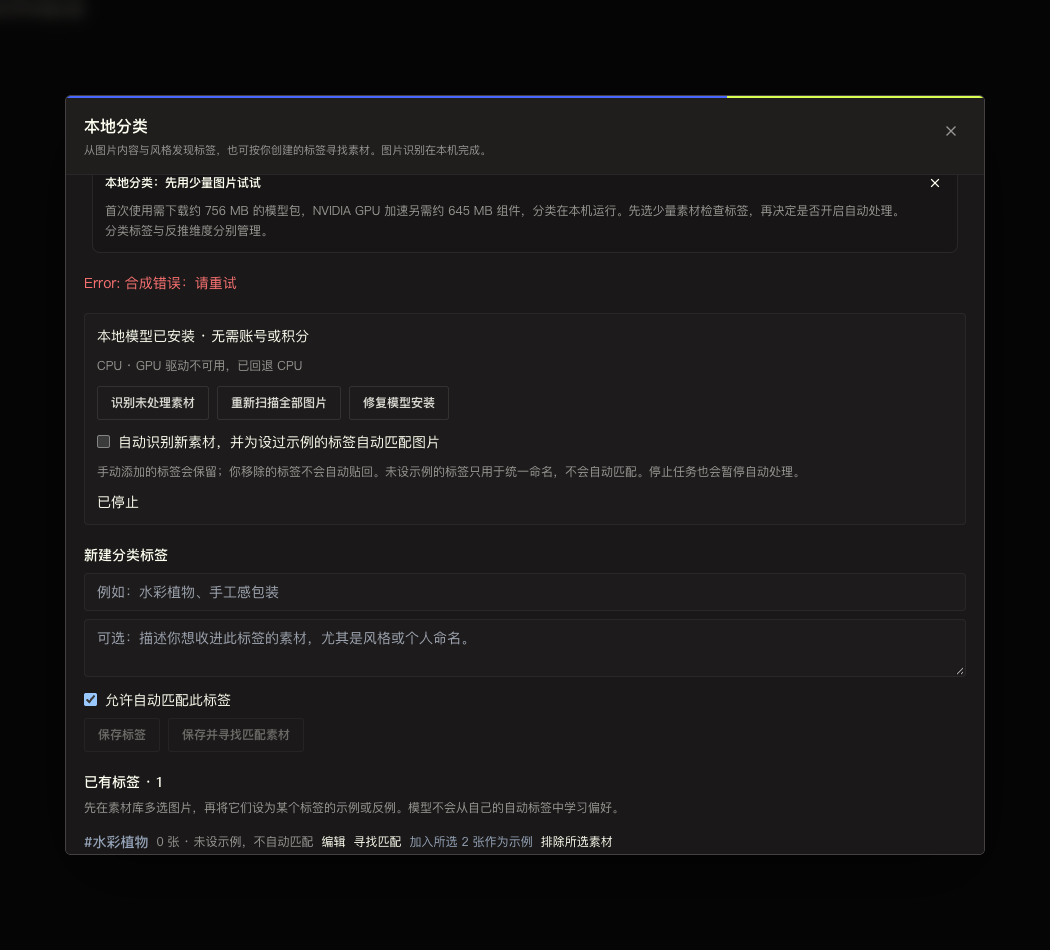
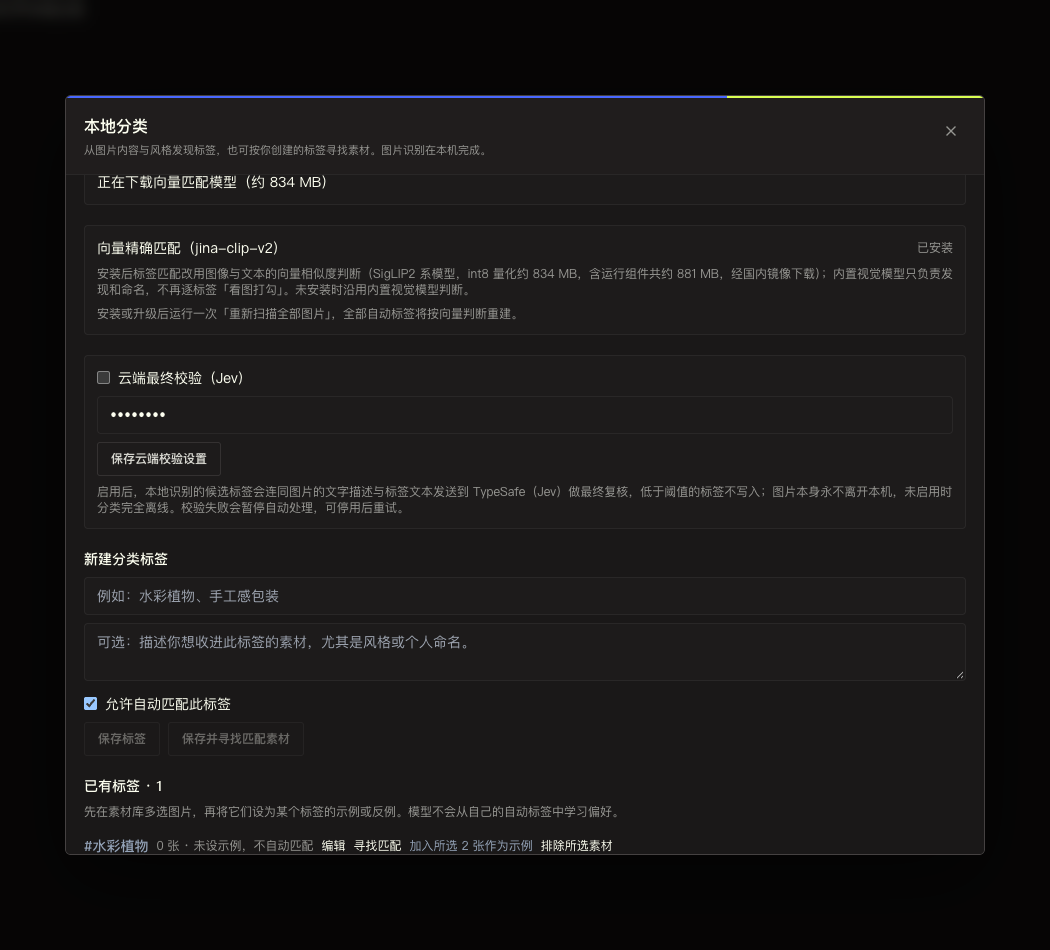
chore(mac): record 26.9.2001 build with R2 upload handoff and 26.9.1901 live baseline

diff --git a/PROJECT.md b/PROJECT.md
@@ -21,11 +21,11 @@
 
 ## 目前进展
 
-截至 2026-09-19，桌面与官网自动更新发布已重新核对生产；Worker、数据库及模型服务仍沿用下述既有部署记录，本次未变更。
+截至 2026-09-20，Mac 更新通道已由发布侧替换至 **26.9.1901**（启动静默检查更新等 26.9.1803 同源功能随包上线）；Windows 保持 26.9.1803。Worker、数据库及模型服务仍沿用下述既有部署记录，本次未变更。
 
-**自动更新：** Windows x64 已发布 **26.9.1803**，含启动时检查更新、设计师路线开放范围及应用内账号升级入口；M 系列 Mac 保持 **26.9.1802**，尚未包含这些新增客户端功能。官网检查、完整包下载和验签已通过，Intel、Mac 公证及双端原生升级仍待验收。发布/回滚和双端交接见 [桌面自动更新](dev-doc/DESKTOP-UPDATES.md)。
+**自动更新：** Windows x64 已发布 **26.9.1803**，含启动时检查更新、设计师路线开放范围及应用内账号升级入口；M 系列 Mac 线上为 **26.9.1901**（2026-09-20 确认清单已替换上线，含上述新增客户端功能与本地分类防误标），**26.9.2001 已本机构建待上传发布**（向量匹配判官、Jev 云端校验与画板/文本卡增强）。官网检查、完整包下载和验签已通过，Intel、Mac 公证及双端原生升级仍待验收。发布/回滚和双端交接见 [桌面自动更新](dev-doc/DESKTOP-UPDATES.md)。
 
-- **桌面**：当前 Windows 已发布 **26.9.1803**，M 系列 Mac 为 **26.9.1802**（SQLite 至 `0030`）。在此前 26.9.17 的项目画板、多线程、身份引导、素材仅画板可见、分层编辑、Mac 共用更新、本地分类代理/GPU 与标签恢复基础上，合并工作区既有改动及设置内自动更新；采用用户确认的整包发布范围。老版本仍需先手动安装一次 26.9.18，之后由设置检查后续新版。
+- **桌面**：当前 Windows 已发布 **26.9.1803**，M 系列 Mac 为 **26.9.1901**（SQLite 至 `0030`）。在此前 26.9.17 的项目画板、多线程、身份引导、素材仅画板可见、分层编辑、Mac 共用更新、本地分类代理/GPU 与标签恢复基础上，合并工作区既有改动及设置内自动更新；采用用户确认的整包发布范围。老版本仍需先手动安装一次 26.9.18，之后由设置检查后续新版。
 - **云端**：最近部署记录为 9 月 14 日；在 9 月 11 日的视频基线上加入兑换码/后台（`0059/0060`）与分层服务（`0061`），保留 `0057` 未集成预留。Worker 的 DSH 已改为 `deepseek-flash` 并部署漏参纠正；后续分层镜像包含这些更新。版本与回滚入口见 [收费化进度](dev-doc/ARCH-ADJUST-PROGRESS.md)。
 - **Agent / HTML**：统一 `bowerbird-unified-agent + dsh` 入口与受限 renderer 已部署，真实 HTML 工具链及图片多结果能力已有验收；仍为 **test-only**。缺自然小名单质量样本，基础镜像上次扫描的 **4 CRITICAL / 18 HIGH** 尚无修复或风险接受证据；不可据旧扫描推断今日漏洞数量。
 - **视频 / 分层**：Cloud Seedance 2.5 已部署，**未启价、未完成真实生成与账单验收**；即梦 2.5 四模式已接入，真实生成与原生 UI 仍待验。分层云服务按 **20/23 积分测试价**完成真实拆分/修改与幂等扣费验收，正式价和原生桌面完整链路仍待确认。
@@ -38,12 +38,12 @@
 - 反推旧清单的结果管理、取消/耗时、复制及维度复用已实现；单图指令记忆、视频反推支持与流式结果显示仍未形成验收闭环。当前提交反推还会保存全局默认指令，与“保存为默认”提示存在差异，需单独修正。PSD 导入预览仍未实现，已有图层 PSD 导出不等于支持 PSD 素材预览。OCR/版式/灵感卡等保持延后。
 
 **近期里程碑（仅保留最近 3 条；历史详见 [进展归档](dev-doc/进展归档.md)）**
[1 lines of base64/hex data omitted]
+
 > **本地分类匹配判断切换为 SigLIP2 系向量匹配（2026-09-19，本机实现+真实模型验证）：** 应用户澄清，引入 jina-clip-v2（SigLIP2 视觉塔 + jina-embeddings-v3 文本塔，ONNX int8 874MB）作为匹配阶段判官：安装向量包后逐标签判断改为「图像嵌入 × 标签文本/示例图嵌入」余弦相似度（≥0.27 且不低于排除示例），VLM 只负责发现与命名；未安装/加载失败/平台无运行库（Intel Mac）时回退原 VLM 判断。`ort` 2.0.0-rc.13 load-dynamic，onnxruntime 1.28.0 运行库随包经 SHA-256 固定下载（hf-mirror 优先），全链路本机完成不出机。21 张引导素材实测：矿泉水瓶产品图 top-1 即「矿泉水瓶」0.289（「女孩」跌出前五），真负例 <0.22，阈值 0.27 由此标定；生产代码真实模型测试 8.0s 通过。Rust **378 passed / 6 ignored**、TypeScript 与面板 UI 回归通过。Windows x64 清单已钉定未实机验证；int8 未与 fp16 对照、UI 截图对「产品图」0.328 为已知误报面，真实库观察待续。详见 [LOCAL-CLASSIFICATION.md](dev-doc/LOCAL-CLASSIFICATION.md)。
 
 
 > **本地分类引入可选云端最终校验 Jev（2026-09-19，源码更新未打包）：** 落地前一日调研决策：TypeSafe Jev（System One Model）作为 opt-in 最终闸门加入本地分类——识图始终本地（llama.cpp + 固定 Qwen3.5-0.8B 不变），出机仅图片文字描述与标签文本，默认关闭、面板配置 API Key；一次请求并行复核全部候选（noul 概率 ≥0.6 才写入），校验失败按资产失败处理、不写部分结果。附带修复发现抽样就地截断标签集导致示例匹配只遍历前八个的问题。本地分类回归 **24 passed / 4 ignored**（新增 Jev 阈值过滤/错误不放行/空描述跳过三测）、settings 回归 9 passed、TypeScript 与面板 UI 脚本（含云端校验保存断言）通过；未启用时行为与上版一致，阈值待真实 key + 引导素材标注集调优。详见 [LOCAL-CLASSIFICATION.md](dev-doc/LOCAL-CLASSIFICATION.md)。
-
[1 lines of base64/hex data omitted]
 
 
 

diff --git a/macOS/README.md b/macOS/README.md
@@ -2,7 +2,21 @@
 
 本目录记录 Mac 上的本地开发、运行和未签名构建流程。Bowerbird 使用 canonical Tauri / React / Rust 源码，不维护 macOS override。构建架构以 `rustc -vV` 的 host 为准；Intel 为 `x86_64-apple-darwin`，Apple Silicon 原生工具链为 `aarch64-apple-darwin`。
 
-## 2026-09-19 Mac 26.9.1901 更新包（本机构建待发布）
+## 2026-09-20 Mac 26.9.2001 更新包（本机构建待上传）
+
+收录 9 月 19/20 存档工作：本地分类向量精确匹配判官（jina-clip-v2 int8，可选安装、未装回退 VLM）与可选云端最终校验 Jev、画板新卡锚定当前可视区左上角、视频卡独立样式与 ▶ 徽标、文本卡表格增强（标题编辑/整表复制 CSV/行高列宽拖拽）、创作模式空白框选、mac「打开所在文件夹」Finder 选中与对话框方向键乱码修复。版本按同日序号规范定为 **26.9.2001**（20 日第 1 包，> 线上 26.9.1901，护栏通过；1901 清单已由发布侧替换上线，2026-09-20 确认）。构建前验证：Rust 全量 **379 passed / 6 ignored**、画板纯逻辑 **127/127**、creation-editor/creation-marquee/notes/media/reference/local-classification 六组 UI 回归与 `tsc --noEmit` 通过（`canvas-arrangement-ui`、`canvas-selection-to-board-ui` 的既有等待失败维持不处理）。
+
+本机缺失 `macOS/.signing/r2.env`（R2 凭据），本轮 `R2_SKIP_UPLOAD=1 bash macOS/release.sh macOS/dist/release-notes-26.9.2001.txt` 仅本地产出（产物在 `macOS/dist/`，不入 Git）：
+
[3 lines of base64/hex data omitted]
+
+本机核验：`CFBundleShortVersionString` = 26.9.2001、arm64 二进制内嵌 Mac 公钥与 `tauri.macos.conf.json` 及已发布 26.9.1802/1901 逐字节一致（key id `0b5a2efc4865664f`）、DMG `hdiutil verify` 通过、minisign 主签名与全局签名通过（`minisign-verify` 0.2.5 同构造）、篡改字节被拒、清单 signature 与 `.sig` 逐字节一致。
+
+**发布进度（2026-09-20）**：待恢复 `macOS/.signing/r2.env` 后在仓库根执行 `/tmp/bowerbird-release-26.9.2001/upload-r2.sh`（上传 6 个文件 + 公网完整下载哈希 + minisign 复核），再在服务器 106.55.44.143 执行 `/tmp/bowerbird-release-26.9.2001/swap-manifest.sh`（备份 26.9.1901 清单 → 哈希断言 `ed68d36a…` → rename 原子替换 → 公网复核）。回滚：把备份文件 rename 回原名。交接值与协议见 [DESKTOP-UPDATES.md](../dev-doc/DESKTOP-UPDATES.md)「Mac 26.9.2001 发布侧核验」。本轮未运行真实应用内更新。
+
+## 2026-09-19 Mac 26.9.1901 更新包（已发布）
 
 合并远端 dev `3f089bf`（Windows 26.9.1803 源码：启动静默检查更新与可跳过提醒 `StartupUpdateDialog`、仅开放设计师路线、账号升级直达权益/兑换面板、官网快照对齐）并纳入 mac 侧本地分类误标根治后出包。版本按同日 patch 序号规范定为 **26.9.1901**（9 月 19 日第 1 包；因前日已用 26.9.1802/1803 四位序号，19 日首个包需用 1901 才能高于线上 darwin-aarch64 26.9.1802，护栏通过）。合并后验证：Rust 全量 **371 passed / 5 ignored**、TypeScript `tsc --noEmit`、app-updater/引导/本地分类三组 UI 回归通过（随包 Vite production build 在 tauri build 内完成）。
 
@@ -12,7 +26,7 @@
[1 lines of base64/hex data omitted]
 - 更新清单：`darwin-aarch64.json`（version 26.9.1901，notes 为本地分类防误标与启动检查更新说明，URL 指向 R2 直下 `mac_package/Bowerbird_26.9.1901_aarch64.app.tar.gz`）。
 
-**发布进度（2026-09-19）**：包/签名/哈希/DMG/清单已上传 R2（`mac_package/`），发布侧核验全部通过——完整下载大小与 SHA-256 一致、minisign 主签名与全局签名通过（`minisign-verify` 0.2.5 同构造）、篡改字节被拒、公钥与已发布 26.9.1802 连续（key id `0b5a2efc4865664f`）、R2 清单 signature 与包 `.sig` 逐字节一致。**官网清单尚未替换，线上仍为 26.9.1802**；在服务器执行 `/tmp/bowerbird-release-26.9.1901/swap-manifest.sh`（备份→同目录临时文件→rename 原子替换→公网复核）即完成发布，交接值与回滚见 [DESKTOP-UPDATES.md](../dev-doc/DESKTOP-UPDATES.md)「Mac 26.9.1901 发布侧核验」。发布后 26.9.1802 客户端经设置手动检查升级；启动静默检查自本版本起在 Mac 生效，本轮未运行真实应用内更新。
+**已发布（2026-09-19/20 交接确认）：** 上述 26.9.1901 产物已经发布侧执行清单原子替换上线，2026-09-20 公网复核线上 darwin-aarch64 清单为 26.9.1901；26.9.1802 客户端经设置手动检查升级，启动静默检查自本版本起在 Mac 生效。后续 26.9.2001 见上节。
 
 ## 2026-09-18 Mac 26.9.1802 引导更新包（已发布）
 

diff --git a/dev-doc/进展归档.md b/dev-doc/进展归档.md
@@ -6,6 +6,8 @@
 
 ## 归档条目（新 → 旧）
 
[1 lines of base64/hex data omitted]
+
 > **本地分类误标根治：切断反馈回路与无示例盲匹配（2026-09-18，已纳入 Mac 26.9.1901 本机构建）：** 用户矿泉水瓶产品图被误标 #女孩 #梅花 等；全库核查证实 0.8B 模型误判被管线放大——发现阶段按引用次数注入前八标签且提示「优先复用」，误标抬高排名形成滚雪球；无示例标签逐批盲判被成片打 true（另一水瓶图命中 8 个标签，含 猫/中秋/月饼）。本轮不动模型：发现参考改为按素材确定性哈希抽样；发现提出的已有标签名直接落地；自动处理只对有人工示例（正例/排除）的标签做匹配，无示例标签仅在用户显式「寻找匹配」时判断；「重新扫描全部图片」升级为按新规则重建全部自动归属并清退不再成立的自动标签；提示词改为先看图后命名、证据须可见。本地分类回归 **21 passed / 4 ignored**（新增抽样/落地/示例标记 3 项）、TypeScript 与面板 UI 脚本通过。既有库的错误自动标签需在新版点一次「重新扫描全部图片」清退；模型能力边界未变，更大模型对照仍按原计划后续进行。详见 [LOCAL-CLASSIFICATION.md](dev-doc/LOCAL-CLASSIFICATION.md)。
 
 > **Windows 26.9.1803 打包与官网更新（2026-09-18）：** 存档启动时静默检查更新及可跳过提醒、仅开放设计师路线、账号升级进入应用内权益/兑换面板与官网地址修正；此前 26.9.1802 双端发布和首页下载变更一并入库。Windows 签名包 83175110 bytes，SHA-256 f5477cdefaa4d224f8c734ea46af2c7fe7cfb3f81eddae8f27f8d83135670f46。529 项构建输入、43 个引导资源、解包 x64/版本/安装钩子、签名与篡改拒绝通过；引导 14/14、更新/引导/兑换及账号入口 UI、TypeScript/Vite 和官网构建通过。Rust 合计 361 passed / 8 ignored / 11 filtered；假 CLI 测试补齐临时 APPDATA 的版本专属启动器后通过，未改生产代码。官网候选/正式服务、公网完整下载和验签通过，Windows 通道及首页为 26.9.1803，Mac 保持 26.9.1802，旧包保留；现役 20260918-26.9.1803，回滚 20260918-26.9.1802-download-copy。发布证据见 .tmp/release-20260918-1803/。构建后并行出现的官网视频懒加载及缓存版本号改动未纳入本次部署，保留于工作区。未执行真实用户安装，Mac 新功能包、Intel、公证与双端原生升级仍待验收；Worker/数据库未变。
